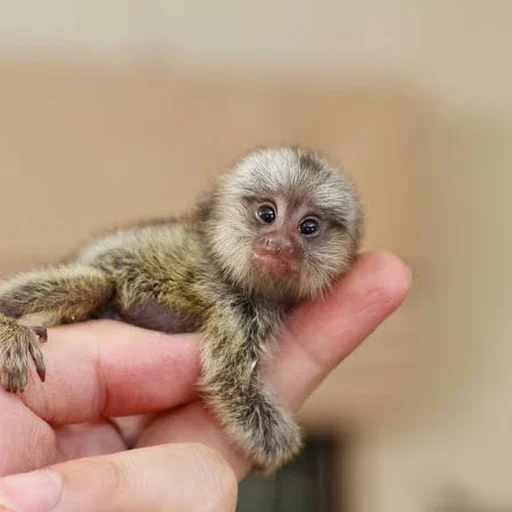
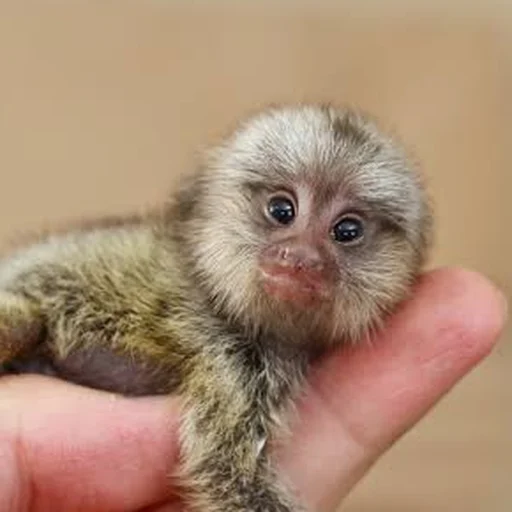
Imágenes más grandes en las cartas, texto que se ajusta y recortes centrados en la cara
Claude-Session: https://claude.ai/code/session_01U8LMBvas7JRCSLyRbxTHyM

diff --git a/public/style.css b/public/style.css
@@ -134,7 +134,10 @@ button { font-family: var(--f-tit); cursor: pointer; }
   box-shadow: 0 0 0 2px #2a1d10, 0 8px 12px #000a; }
 .esbirro .arte { display: grid; place-items: center; width: 100%; height: 100%; border-radius: 50%; overflow: hidden;
   font-size: calc(var(--esb) * .56); line-height: 1; background: var(--ruido), var(--fondo, #555); box-shadow: inset 0 0 16px #000d; pointer-events: none; }
-.esbirro .arte img, .carta .arte img { width: 100%; height: 100%; object-fit: cover; }
+.esbirro .arte img, .carta .arte img { width: 100%; height: 100%; object-fit: cover; object-position: 50% 30%; }
+.carta .texto.t2 { font-size: calc(var(--carta-w) * .072); line-height: 1.1; }
+.carta .texto.t3 { font-size: calc(var(--carta-w) * .063); line-height: 1.08; }
+.carta .texto.t4 { font-size: calc(var(--carta-w) * .056); line-height: 1.05; }
 .esbirro.provocar::before { content: ""; position: absolute; inset: -9px -12px -6px; z-index: -1; pointer-events: none;
   clip-path: polygon(50% 0, 100% 12%, 96% 62%, 50% 100%, 4% 62%, 0 12%);
   background: var(--ruido), linear-gradient(#b9b2a6, #6d665c 60%, #4a443c); filter: drop-shadow(0 4px 4px #000); }
@@ -173,15 +176,15 @@ button { font-family: var(--f-tit); cursor: pointer; }
 .carta.legendaria { box-shadow: 0 0 0 1.5px #1e160d, 0 0 0 3.5px var(--oro), 0 0 18px #ffb30088, 0 8px 16px #000c; }
 .carta.legendaria::before { content: "★"; position: absolute; top: -12px; left: 50%; transform: translateX(-50%); z-index: 3; font-size: calc(var(--carta-w) * .16);
   color: var(--oro); text-shadow: 0 0 6px #ffb300, 0 2px 2px #000; }
-.carta .arte { position: relative; height: 47%; margin: 2px 8% 0; border-radius: 50%; display: grid; place-items: center; overflow: hidden;
+.carta .arte { position: relative; height: 53%; margin: 0 3% 0; flex: none; border-radius: 50%; display: grid; place-items: center; overflow: hidden;
   font-size: calc(var(--carta-w) * .36); background: var(--ruido), var(--fondo, #777); box-shadow: 0 0 0 3px #3a2c1a, 0 0 0 5px #a8946b, inset 0 0 14px #000c; }
 .carta.hechizo .arte, .carta.mision .arte { border-radius: 14px; margin: 2px 6% 0; }
-.carta .titulo { position: relative; z-index: 2; margin: -9% -3% 0; padding: 4% 6%; text-align: center; font-family: var(--f-tit); font-weight: 700;
+.carta .titulo { position: relative; z-index: 2; margin: -7% -3% 0; padding: 4% 6%; text-align: center; font-family: var(--f-tit); font-weight: 700;
   font-size: calc(var(--carta-w) * .095); color: #fff; white-space: nowrap; overflow: hidden; text-overflow: ellipsis;
   text-shadow: -1px -1px 0 #000, 1px -1px 0 #000, -1px 1px 0 #000, 1px 1px 0 #000;
   background: linear-gradient(#d9bd85, #a8854a 50%, #7c5f30); clip-path: polygon(0 18%, 50% 0, 100% 18%, 97% 100%, 50% 84%, 3% 100%);
   filter: drop-shadow(0 2px 2px #000); }
-.carta .texto { flex: 1; margin: 2% 4% 8%; padding: 6% 6% 10%; border-radius: 8px; background: var(--ruido), linear-gradient(#f7ecd2, #dcc89f);
+.carta .texto { flex: 1; min-height: 0; overflow: hidden; margin: 1% 4% 9%; padding: 2% 4% 4%; border-radius: 8px; background: var(--ruido), linear-gradient(#f7ecd2, #dcc89f);
   font-weight: 700; font-size: calc(var(--carta-w) * .082); line-height: 1.15; text-align: center; display: grid; place-items: center;
   box-shadow: inset 0 0 8px #8a6a3a88; }
 .carta .arq { position: absolute; bottom: 5px; left: 0; right: 0; text-align: center; font: 800 calc(var(--carta-w) * .065) var(--f-tit); color: #f2e6c8; opacity: .8;

diff --git a/public/app.js b/public/app.js
@@ -134,7 +134,7 @@ function cartaHTML(c, { uid = "", clase = "" } = {}) {
   return `<div class="carta ${esH ? "hechizo" : ""} ${c.tipo === "mision" ? "mision" : ""} ${c.rareza === "legendaria" ? "legendaria" : ""} ${clase}" ${uid ? `data-uid="${uid}"` : ""} data-carta="${esc(c.id)}"${marco ? ` style="--marco:${esc(marco)}"` : ""}>
     <div class="arte" style="--fondo:${colorDe(c.arquetipo || c.id)}">${artHTML(c.arte)}</div>
     <div class="titulo">${esc(c.nombre)}</div>
-    <div class="texto">${esc(c.texto || "")}</div>
+    <div class="texto ${((l) => (l > 115 ? "t4" : l > 85 ? "t3" : l > 50 ? "t2" : ""))((c.texto || "").length)}">${esc(c.texto || "")}</div>
     ${etiqueta ? `<div class="arq">${esc(etiqueta)}</div>` : ""}
     <div class="stat mana ${DB[c.id] && c.coste < DB[c.id].coste ? "rebajado" : ""}">${c.coste}</div>
     ${esH ? "" : `<div class="stat atk">${c.ataque}</div><div class="stat hp">${c.vida}</div>`}
